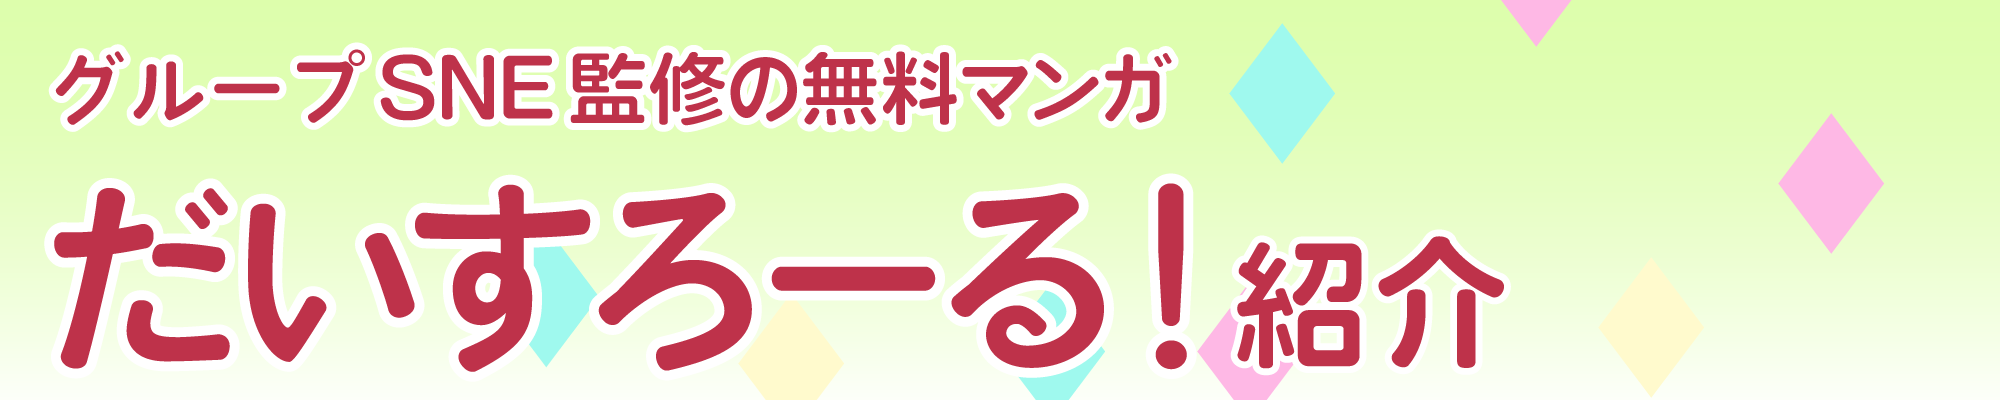
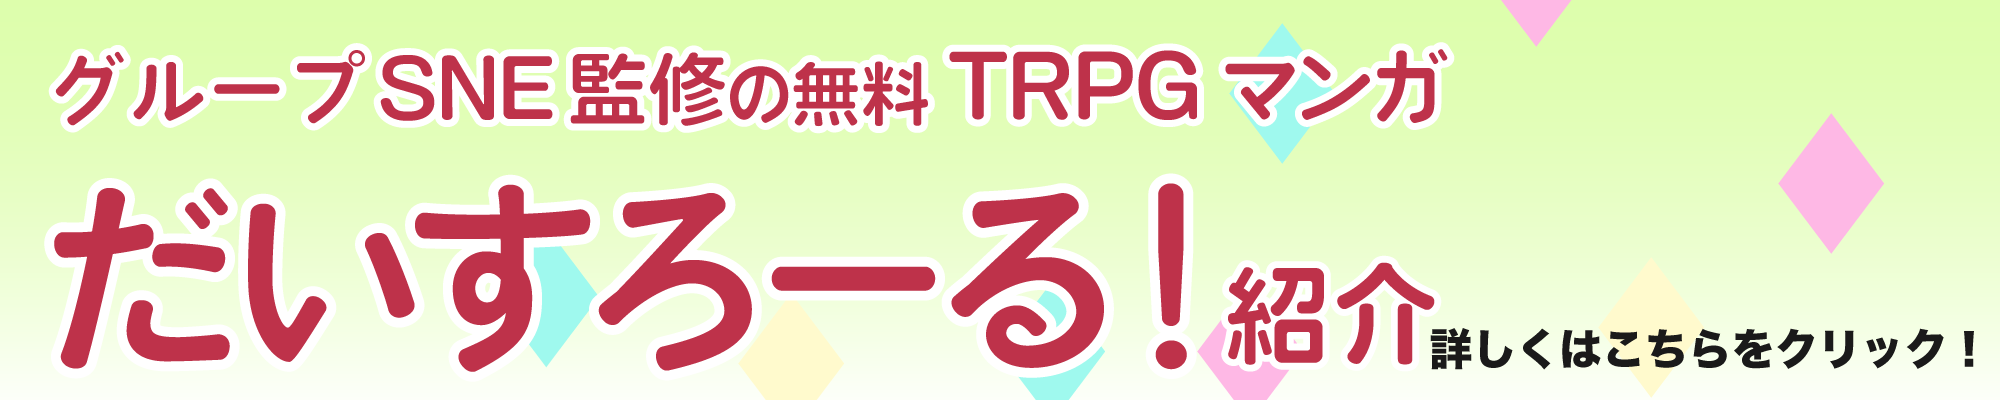
ハルーラガイド再販とだいすろーるの画像修正

diff --git a/pages/sw25/harula.vue b/pages/sw25/harula.vue
@@ -1,0 +1,186 @@
+<template>
+    <card-array-by-andml :andml="andml" />
+</template>
+  
+<script setup lang="ts">
+import { isPast } from '~/src/util/date';
+
+const andml = `
+&1 ハルーラガイドとは？
+${!isPast("2023/12/10") ? "ソード・ワールド2.5（SW2.5/ソドワ）の同人誌『ハルーラガイド』が2023年 &em_11月21日から再販受付 されます！ &br &br" : ""}
+
+『ハルーラガイド』は &em_GM（ゲームマスター）として遊ぶためのガイド としてたかはるさん（ &link_https://twitter.com/numachipachi,Twitter ）が中心となって作った同人誌です。
+&br
+ボリュームたっぷりの &em_シナリオ5本 と &em_コラム15本 が掲載されていて、GMをする際の「コツ」などがわかります！
+&br
+&em_GMをよくする人 はもちろん、 &em_これからGMに挑戦してみたいGM初心者の方 や、 &em_PLとしてGMをサポートしたい方 にも、超おすすめの同人誌です。
+シナリオ作者さんにもおすすめです。
+&br
+2022年の冬コミ（C101）にて頒布されて話題になり、既に &em_紙版が170部、電子版が100部 という記録を打ち立てています！
+&br
+表紙は公式サプリメント &em_『ラクシアライフ』でも表紙を手がけた今野隼史先生 による、とっても可愛いイラストです！
+&br
+&br
+ハルーラガイドの魅力についてはこのページの下部でも詳しく解説していますので、よろしければ読んでいってください！
+
+
+${!isPast("2023/12/10") ? `
+&1 ハルーラガイド再販！
+通販分やイエローサブマリンでの委託分も含め、 &em_全て在庫切れとなっていた 紙版の『ハルーラガイド』が再販されることになったそうです！
+&br
+- 販売方法
+-- 通信販売（予約）
+- 予約期間
+-- 11/21（火）〜12/10（日）
+- 予約サイト
+-- &link_https://harryharry.base.shop/blog/2023/11/10/072951,HarryHarry
+&br
+${!isPast("2023/11/27") ? `
+なお11/21（火）〜11/27（月）はPayIDアプリから購入すると &em_10〜20%OFFになるキャンペーン もあるとのことです！
+&br
+詳しくは予約サイトのHarryHarryをご覧ください。
+&button_https://harryharry.base.shop/blog/2023/11/10/072951 HarryHarry
+` : ""}
+&br
+&br
+また、イエローサブマリンでの委託販売も予定しているようです。
+様々な事情で通販での購入が難しいという方はこちらも検討ください。
+&br
+&br
+『ハルーラガイド』は内容ももちろんですが、 &em_作者のたかはるさんがこだわった読みやすいレイアウト や、 &em_今野隼史先生の表紙イラスト もとっても魅力的です！
+&br
+電子版でも楽しめないことはないですが、ぜひ紙版も手にしていただきたいと思っています！
+`: ""}
+
+
+&1 ハルーラガイドの電子版をダウンロードしよう
+ハルーラガイドの電子版はたかはるさんのBoothにて頒布されています！
+&br
+電子版はいつでも読めるのが圧倒的なメリット！
+&br
+たかはるさんのレイアウトは電子版でもとっても読みやすいです！
+&button_https://booth.pm/ja/items/4489031 Booth
+
+
+&1 ハルーラガイドの魅力！
+さて、ではここからは、管理人しゃちほこ丸の思う『ハルーラガイド』の魅力を紹介します！
+&br
+と、その前に。
+なんとこのウェブサイトでは『ハルーラガイド』の作者の2人にインタビューをしています！
+こちらもぜひ読んでください。
+&button_/sw25/fav/takaharu
+&button_/sw25/fav/harry
+&br
+また、以前に各コラムの感想を書いているのでこちらも良ければ読んでください。
+&button_/blog/harula
+&button_/blog/harula2
+&br
+それでは改めて、紹介して行きます！
+
+&2 表紙イラストがとっても素敵！
+僕が今野隼史先生の大ファンだからというのもあるのですが、とってもとっても素敵な表紙イラストです！
+&br
+今野隼史先生が &link_https://twitter.com/frontierpub/status/1598951621698158593,こういうツイート をしています。
+ほんとに &em_「公式書籍とは違けど、SW2.5っぽさもある」 とっても絶妙なデザインで、とっても素敵なんです！
+&br
+文字なしのイラストは &link_https://twitter.com/frontierpub/status/1608847529436942339,こちらの今野隼史先生のツイート や、 &link_https://www.pixiv.net/artworks/104059834,こちらの今野隼史先生のPixiv から確認できますので、こちらもぜひぜひ見てください！
+
+&2 シナリオがとっても面白い
+掲載シナリオは以下の5本です。
+&br
+- ランダムアビスを踏破せよ！
+-- ランダムイベント
+-- 作：ハリィさん
+- シガル村の幽霊屋敷
+-- ダンジョン
+-- 作：ヴォーパルのっちさん
+- ユニコーン密猟者を追え！
+-- シティ
+-- 作：たかはるさん
+- 高嶺の花
+-- ウィルダネス
+-- 作：ざしきわらしさん
+- 赤子泣く頃
+-- キャンペーン作例一話目
+-- 作：卵生瞬さん
+&br
+上4つは「ランダムイベント」「ダンジョン」「シティ」「ウィルダネス」と &em_異なるジャンルのシナリオ になっています。
+いろんなシナリオを遊んでみたい方におすすめです。
+&br
+『赤子泣く頃』はキャンペーンの1話目の作例ということで、これを元にキャンペーンを作ってみることができます。
+&br
+話に繋がりがあるわけではないものの、 &em_レベル帯が連続になっているので、キャンペーンで5つ遊んでみるのもおすすめ です。
+
+&3 僕も遊んでみました
+ちなみに僕はDKPさん主催の「はるコン」で『ランダムアビスを踏破せよ！』を2周遊びました。
+すっごく楽しかったです。
+ランダムイベントは同じシナリオを2回連続で遊ぶなんてことができるのも魅力ですね。
+&br
+ちなみに、「はるコン」については以下で紹介していますのでよければ見ていってください。
+&button_/sw25/fav/dkp
+
+&2 コラムがとっても役に立つ
+メインの内容のコラムと対談、これがとっても役に立ちます！
+&br
+テンポよく楽しいセッションをマスタリングするコツであったり、シナリオの書き方であったり、PLが少ないときの対応であったり……、 &em_素晴らしいコラムがいっぱい です。
+&br
+詳しい内容は全ての感想と「自分ならこうするな」をブログに書いているのでそちらを参考にしてください。
+&button_/blog/harula
+&button_/blog/harula2
+&br
+こういうのって「わかっていても言語化が難しい」ものなので、言語化してある本を読むと、「これ無意識でしてたな」ってのが出てきて、そういうのでもGMとしてのスキルが上がる気がします！
+&br
+もちろん初心者GMさんなら「こうすればいいのか！」「こういうことを気にするといいんだ！」「こういう準備をするといいんだ！」って情報がいっぱいです。
+&br
+&3 他のTRPGでも！
+ソード・ワールド2.5についてのコラムですが、 &em_他のTRPGでも絶対に役立つ内容 ばかりです。
+僕が遊んだことがある「クトゥルフ神話TRPG」「インセイン」「バケノカワ」「マモノスクランブル」等々なら絶対に役立ちます。
+
+&2 レイアウトがとってもみやすい！
+電子版の販売サイトであるBoothで中身がちょっと公開されているので見ていただきたいのですが、とってもとっても読みやすいデザインです！
+&button_https://booth.pm/ja/items/4489031 Booth
+&br
+こちらも表紙と同様に、 &em_「公式書籍とは違けど、SW2.5っぽさもある」 とっても絶妙なデザインです！
+&br
+読みやすいって正義です。
+&br
+「同人誌はちょっと……」って方にもぜひ読んでいただきたいなって思ってます。
+
+
+&1 まとめ
+改めて、 &em_GMをよくする人 はもちろん、 &em_これからGMに挑戦してみたいGM初心者の方 や、 &em_PLとしてGMをサポートしたい方 にも、超おすすめの同人誌です。
+シナリオ作者さんにもおすすめです。
+&br
+ぜひこの機会にチェックして見てください！
+
+${!isPast("2023/12/10") ? `
+&3 通販について
+- 販売方法
+-- 通信販売（予約）
+- 予約期間
+-- 11/21（火）〜12/10（日）
+- 予約サイト
+-- &link_https://harryharry.base.shop/blog/2023/11/10/072951,HarryHarry
+`: ""}
+
+&3 電子版について
+電子版はたかはるさんのBoothにて頒布されています！
+&button_https://booth.pm/ja/items/4489031 Booth
+&br
+&3 『ハルーラガイド』関連ページ紹介！
+途中でも紹介しましたが、『ハルーラガイド』に関するページがいっぱいありますのでぜひ確認してください！
+&button_/sw25/fav/takaharu
+&button_/sw25/fav/harry
+&button_/blog/harula
+&button_/blog/harula2
+
+&3 SW2.5 関連ページ紹介！
+このウェブサイトでは他にもTRPGやソード・ワールド2.5に関するお役立ち情報などをまとめています！
+ぜひご覧ください！！
+&button_/sw25
+&button_/sw25/forbeginner
+&button_/sw25/tool
+&button_/sw25/new
+`
+</script>
+  

diff --git a/src/pages/pageSettingList.ts b/src/pages/pageSettingList.ts
@@ -420,14 +420,13 @@ export const pageSettingList: PageSetting[] = [
     title: "女子高生×部活×SW2.5 無料マンガ だいすろーる！ 紹介",
     to: "/sw25/comic",
     created: "2023/11/17",
-    lastmod: "2023/11/17",
+    lastmod: "2023/11/21",
     img: "page-image/comic.webp",
     osusume: true,
     explain:
       "TRPGが登場する、グループSNE監修の無料マンガ「だいすろーる！」の紹介です！　ソード・ワールド2.5（SW2.5/ソドワ）がバンバン出てきます！　女子高生たちのゆるふわしたTRPGライフを漫画で読んで楽しみましょう。TRPGあるあるも多数！",
     tags: ["sw25", "trpg"],
   },
-
   {
     title: "SW2.5同人シナリオ集「冒険者の旅路」【C102】",
     to: "/sw25/c102",
@@ -436,6 +435,19 @@ export const pageSettingList: PageSetting[] = [
     osusume: true,
     explain:
       "2023年の夏コミ（C102）でソード・ワールド2.5（SW2.5/ソドワ）の同人シナリオ集が出ました。現在、通販と電子版の頒布をしています。「冒険者の旅路」には4人の作者によるシナリオ6本とキャンペーン1本が掲載。初期作成〜14レベルまでの幅広いレベル帯で遊ぶことができます。企画：幻想書斎（DKP）、協力：灰かぶりのねずみ亭（たかはる）、後援：鳩麦開卓所（十一里あるく）。執筆：しゃちほこ丸・どっかのだれか・りあ・DKP、編集：DKP、表紙イラスト：たつみ。",
+    tags: ["sw25", "scenario"],
+  },
+  {
+    title: "めちゃくちゃ役立つ同人誌 ハルーラガイドを手に入れろ！",
+    to: "/sw25/harula",
+    created: "2023/11/21",
+    lastmod: "2023/11/21",
+    img: isPast("2023/12/10")
+      ? "page-image/harula.webp"
+      : "page-image/harula_saihan.webp",
+    osusume: true,
+    explain:
+      "ソード・ワールド2.5（SW2.5/ソドワ）の初心者GM向けの同人誌『ハルーラガイド』の紹介です。ゲームマスターをする際の「コツ」をコラム15個とそれに対応したシナリオ5本から解説してくださいます。めちゃくちゃ良い同人誌なのでぜひ手に取ってください。通販11月21日から12月10日まで！　電子版の頒布もされています。",
     tags: ["sw25", "scenario"],
   },
   {

diff --git a/src/banner/banners.ts b/src/banner/banners.ts
@@ -18,6 +18,15 @@ export const bannerList: Banner[] = [
     isValid: !isPast("2024/8/12"),
   },
   {
+    name: "harula_saihan",
+    title:
+      "ソード・ワールド2.5同人誌「ハルーラガイド」紙版 通販予約販売 再開！",
+    to: "/sw25/c102",
+    img: "/banner-image/harula.webp",
+    isValid: !isPast("2024/12/10"),
+  },
+
+  {
     name: "halloween",
     title: "ハロウィンイベント実施中",
     to: "/blog/halloween",
@@ -92,7 +101,7 @@ export const bannerList: Banner[] = [
     title: "女子高生×部活×SW2.5 無料マンガ だいすろーる！ 紹介",
     to: "/sw25/comic",
     img: "/banner-image/comic.webp",
-    isValid: isPast("2023/11/17"),
+    isValid: true,
   },
   {
     name: "scenario",
